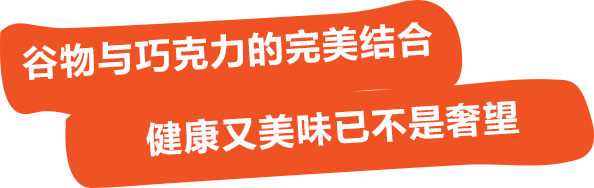
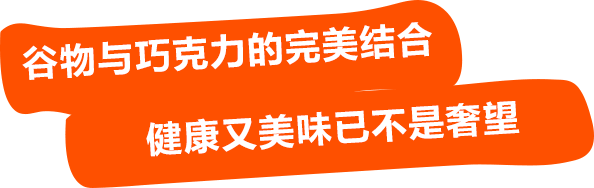
picture

diff --git a/Public/Home/css/index/index.css b/Public/Home/css/index/index.css
@@ -31,7 +31,7 @@
 ******************************************************************************************/
 
 .banner0 {
-    background-color: #ee5322;
+    background-color: #fe5000;
 }
 
 .banner0 .left-arrow {
@@ -100,7 +100,7 @@
 }
 
 .banner0 .slide .logo {
-    background-color: #ee5322;
+    background-color: #fe5000;
     height: 27%;
     width: 100vw;
     position: absolute;
@@ -215,7 +215,7 @@
 ******************************************************************************************/
 
 .banner2 {
-    background-color: #ee5322;
+    background-color: #fe5000;
 }
 
 .banner2 .left-arrow {
@@ -284,7 +284,7 @@
 }
 
 .banner2 .slide .logo {
-    background-color: #ee5322;
+    background-color: #fe5000;
     height: 22%;
     width: 100vw;
     position: absolute;
@@ -317,7 +317,7 @@
 ******************************************************************************************/
 
 .banner3 {
-    background-color: #ee5322;
+    background-color: #fe5000;
 }
 
 .banner3 .left-arrow {
@@ -387,7 +387,7 @@
 }
 
 .banner3 .slide .bottom {
-    background-color: #ee5322;
+    background-color: #fe5000;
     height: 30%;
     width: 100vw;
     position: absolute;
@@ -436,7 +436,7 @@
 
 .banner4 .slide {
     position: absolute;
-    height: 40%;
+    height: 33%;
     width: 100vw;
 }
 
@@ -460,8 +460,15 @@
 }
 
 .banner4 .banner4-slide-content1 {
-    top: 9vh;
+    top: 6vh;
     left: 0;
+    transform: skew(0,3deg);
+    overflow: hidden;
+    z-index: 1000;
+}
+
+.banner4 .banner4-slide-content1 *{
+    transform: skew(0,-3deg);
 }
 
 .banner4 .banner4-slide-content1 .bg {
@@ -470,19 +477,19 @@
 }
 
 .banner4 .banner4-slide-content1 .text {
-    top: 22vh;
+    top: 25vh;
     left: 60vw;
 }
 
 .banner4 .banner4-slide-content1 .plus {
-    top: 22vh;
+    top: 24vh;
     left: 87vw;
 }
 
 .banner4 .banner4-slide-content2 {
     top: 37vh;
     left: 0;
-    z-index: 1000;
+ 
 }
 
 .banner4 .banner4-slide-content2 .bg {
@@ -501,21 +508,29 @@
 }
 
 .banner4 .banner4-slide-content3 {
-    bottom: 0;
+    bottom: -3vh;
     left: 0;
+    transform: skew(0,-3deg);
+    overflow: hidden;
+    z-index: 1000;
+}
+
+.banner4 .banner4-slide-content3 * {
+    transform: skew(0,3deg);
 }
 
 .banner4 .banner4-slide-content3 .bg {
-    bottom: 0;
+    top: -3vh;
     left: 0;
+    height: 100%;
 }
 
 .banner4 .banner4-slide-content3 .text {
-    bottom: 2vh;
+    bottom: 5vh;
     left: 60vw;
 }
 
 .banner4 .banner4-slide-content3 .plus {
-    bottom: 2vh;
+    bottom: 5vh;
     left: 87vw;
 }

diff --git a/Application/Home/View/Index/index.html b/Application/Home/View/Index/index.html
@@ -6,6 +6,7 @@
 
 <block name='body'>
     <img class="arrow" src='__IMG__/index/arrow.png'>
+
     <div class='banner banner0'>
         <a href='javascript:;' class='left-arrow'></a>
         <a href='javascript:;' class='right-arrow'></a>
@@ -414,7 +415,7 @@
             <a href="{:U('whoWeAre')}" class='plus'></a>
         </div>
         <div class='slide banner4-slide-content2'>
-            <img class='bg' src='__IMG__/index/banner4/2-1.png'>
+            <img class='bg' src='__IMG__/index/banner4/2.jpg'>
             <img class='text' src='__IMG__/index/banner4/2.png'>
             <a href="{:U('howWeWork')}" class='plus'></a>
         </div>

diff --git a/Public/Home/css/base.css b/Public/Home/css/base.css
@@ -311,7 +311,7 @@ textarea {
 }
 
 #header-wrap .footer li a {
-    color: #ee5322;
+    color: #fe5000;
     height: 4vh;
     line-height: 1;
 }
